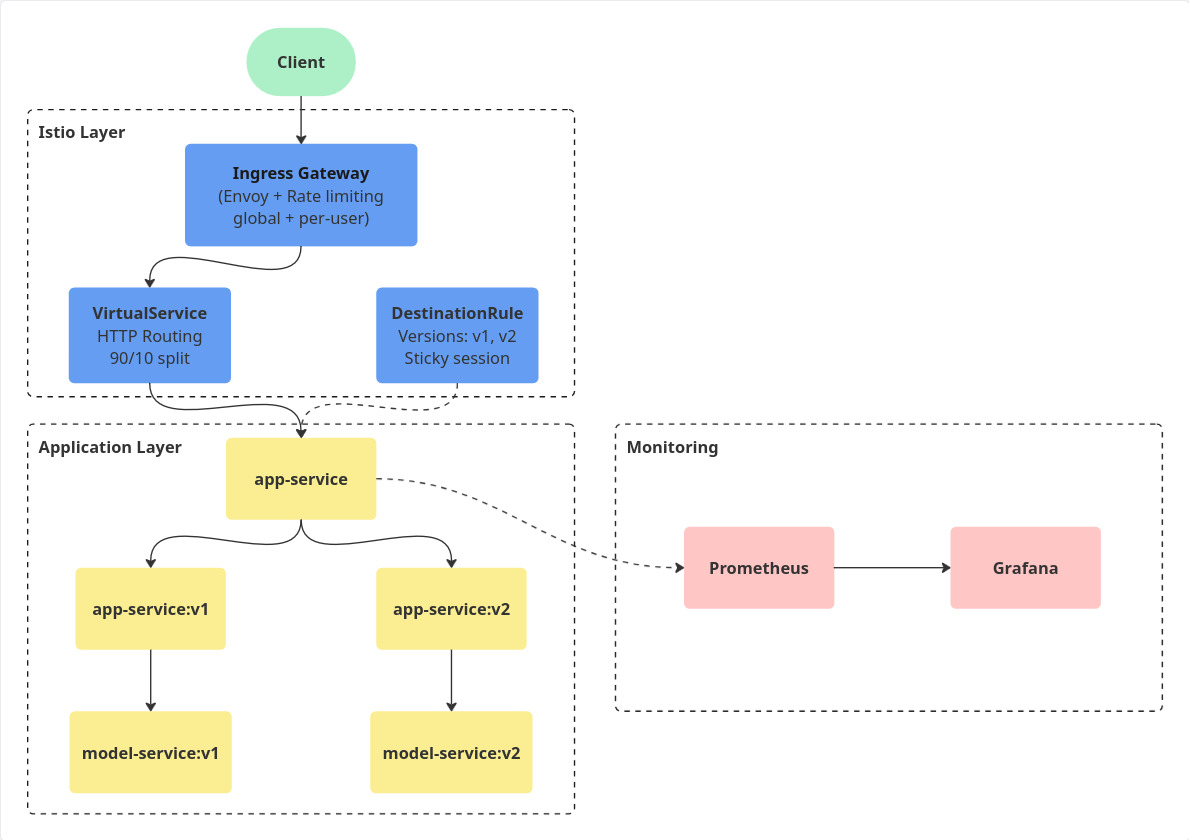
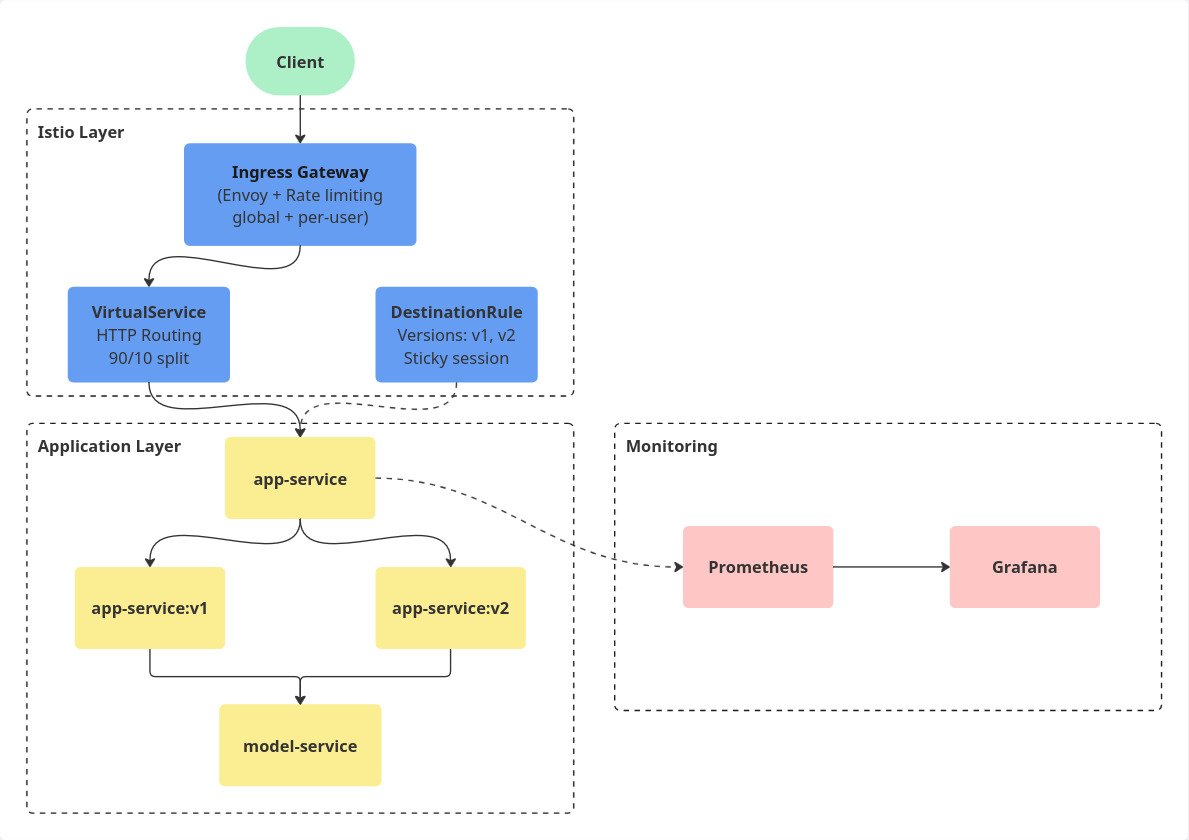
Changed diagrams

diff --git a/docs/deployment.md b/docs/deployment.md
@@ -33,7 +33,7 @@ A typical user request flows through the system as follows:
    The `VirtualService` decides whether the request should be routed to `v1` or `v2` of `app-service`, based on its configured 90/10 weights.
 
 5. **app-service -> model-service**  
-   The request flows from `app-service` to `model-service`. Sticky session ensures the user stays on the same version: if the request is sent to `app-service-v1`, then it will be handled by `model-service-v1` and not `model-service-v2`. The same applies for `app-service-v2` as well.
+   The request flows from `app-service` to `model-service`. Sticky session ensures the user stays on the same version: if the request is sent to `app-service-v1`, then the next requests will be on `app-service-v1` as well.
 
 6. **model-service -> app-service -> Client**  
    The `model-service` returns the prediction to the `app-service`, which constructs the HTTP response and sends it back to the client via the same path **(app → VirtualService → Istio Gateway → Client)**.
